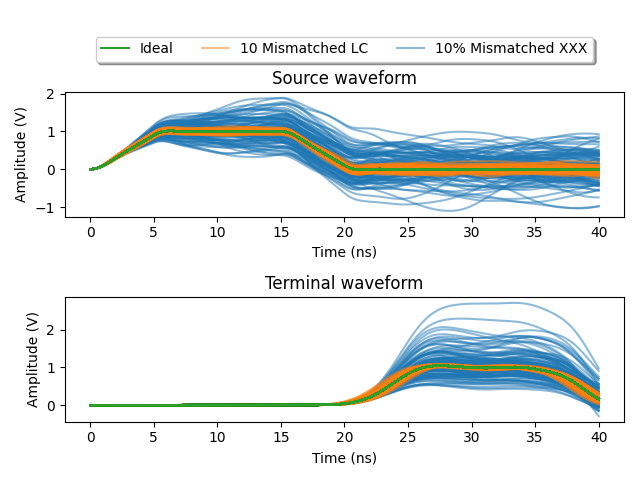
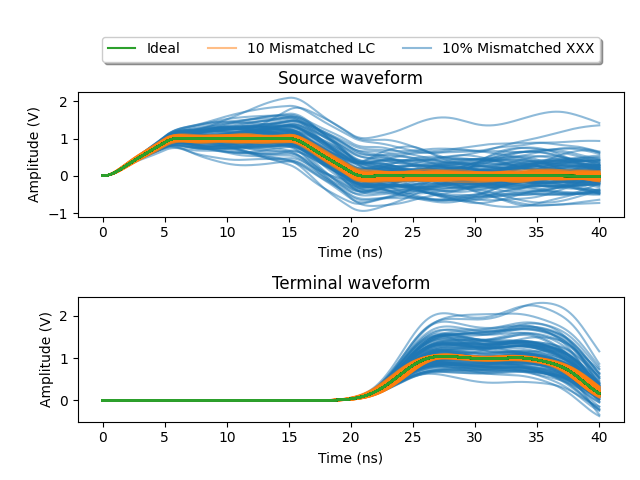
written

diff --git a/examples/tln_example.py b/examples/tln_example.py
@@ -23,6 +23,8 @@ from ark.specification.validation_rule import ValRule, ValPattern
 from ark.reduction import SUM
 import sys
 
+import numpy as np
+
 # visualization scripts
 from ark.cdg.cdg_lang import CDGLang
 import ark.visualize.latex_gen as latexlib
@@ -111,6 +113,9 @@ inpv_val = ValRule(InpV, [ValPattern(SRC, IdealE, IdealV, Range(min=0, max=1)),
                           ValPattern(SRC, IdealE, IdealI, Range(min=0, max=1))])
 inpi_val = ValRule(InpI, [ValPattern(SRC, IdealE, IdealV, Range(min=0, max=1)),
                           ValPattern(SRC, IdealE, IdealI, Range(min=0, max=1))])
+inpv_val = ValRule(InpV, [ValPattern(SRC, IdealE, IdealV, Range(min=0, max=1)),
+                          ValPattern(SRC, IdealE, IdealI, Range(min=0, max=1))])
+
 val_rules = [v_val, i_val, inpv_val, inpi_val]
 tln_lang.add_validation_rules(*val_rules)
 latexlib.validation_rules_to_latex(tln_lang)
@@ -133,10 +138,10 @@ spec = CDGSpec(cdg_types, prod_rules, val_rules)
 validator = ArkValidator(solver=SMTSolver())
 compiler = ArkCompiler(rewrite=RewriteGen())
 
-def build_line(graph,e_nt, v_nt,i_nt,length,start_i=False):
+def build_line(graph,e_nt, v_nt,i_nt,length,term_g=1.0,start_i=False):
     tc = 1e-9
     if start_i:
-        v_nodes = [v_nt(c=tc, g=0.0) for _ in range(length)] +  [v_nt(c=tc, g=1.0)]
+        v_nodes = [v_nt(c=tc, g=0.0) for _ in range(length)] +  [v_nt(c=tc, g=term_g)]
         i_nodes = [i_nt(l=tc, r=0.0) for _ in range(length+1)] 
         for i in range(length):
             graph.connect(e_nt(ws=1.0, wt=1.0), i_nodes[i], v_nodes[i])
@@ -149,7 +154,7 @@ def build_line(graph,e_nt, v_nt,i_nt,length,start_i=False):
 
 
     else:
-        v_nodes = [v_nt(c=tc, g=0.0) for _ in range(length)] + [v_nt(c=tc, g=1.0)]
+        v_nodes = [v_nt(c=tc, g=0.0) for _ in range(length)] + [v_nt(c=tc, g=term_g)]
         i_nodes = [i_nt(l=tc, r=0.0) for _ in range(length)]
         for i in range(length):
             graph.connect(e_nt(ws=1.0, wt=1.0), v_nodes[i], i_nodes[i])
@@ -163,13 +168,13 @@ def build_line(graph,e_nt, v_nt,i_nt,length,start_i=False):
 
 
 def create_tline_branch(v_nt: NodeType, i_nt: NodeType, e_nt: EdgeType,  line_len: int=5, \
-                branch_len: int=2, branches_per_node: int=2, branch_stride: int=1):
+                branch_len: int=2, branches_per_node: int=2, branch_offset: int=0, branch_stride: int=1):
     graph = CDG()
     current_in = InpI(fn=pulse, g=0.0)
     meas = Meas()
     v_nodes = []
     i_nodes = [] 
-    v_nodes_line,i_nodes_line = build_line(graph,e_nt,v_nt, i_nt, line_len)
+    v_nodes_line,i_nodes_line = build_line(graph,e_nt,v_nt, i_nt, line_len,term_g=0.0)
     v_nodes += v_nodes_line
     i_nodes += i_nodes_line
 
@@ -177,14 +182,14 @@ def create_tline_branch(v_nt: NodeType, i_nt: NodeType, e_nt: EdgeType,  line_le
     total_branches =  branches_per_node*int(line_len/branch_stride)
     branches = {}
     for i in range(total_branches):
-        v_nodes_branches,i_nodes_branches = build_line(graph,e_nt,v_nt,i_nt,branch_len,start_i=True)
+        v_nodes_branches,i_nodes_branches = build_line(graph,e_nt,v_nt,i_nt,branch_len,start_i=True,term_g=0.0)
         branches[i] = (v_nodes_branches,i_nodes_branches)
         v_nodes += v_nodes_branches
         i_nodes += i_nodes_branches
 
 
     idx = 0
-    for i in range(0,line_len,branch_stride):
+    for i in range(branch_offset,line_len,branch_stride):
         targ_v = v_nodes_line[i]
         targ_i = i_nodes_line[i]
         for br in range(branches_per_node):
@@ -226,7 +231,7 @@ def create_linear_tline(v_nt: NodeType, i_nt: NodeType,
 
     return graph, v_nodes, i_nodes
 
-def nominal_simulation(cdg,time_range,name):
+def nominal_simulation(cdg,time_range,name,post_process_hook=None):
     validator.validate(cdg=cdg, cdg_spec=spec)
     compiler.compile(cdg=cdg, cdg_spec=spec, help_fn=help_fn, import_lib={})
     mapping = compiler.var_mapping
@@ -239,32 +244,51 @@ def nominal_simulation(cdg,time_range,name):
     print(mapping)
     in_traj_idx = mapping[in_node]
     out_traj_idx = mapping[out_node]
+
+    fig, ax = plt.subplots(1, 1, sharex=True)
+
     plt.plot(time_points,trajs[in_traj_idx])
     plt.plot(time_points,trajs[out_traj_idx])
+    if not post_process_hook is None:
+        post_process_hook(fig,ax)
 
-    filename = "gviz-output/tln-example/%s.pdf" % name
+    filename = "gviz-output/tln-example/%s_plot.pdf" % name
     plt.savefig(filename)
     plt.clf()
 
+def highlight_refl(fig,ax):
+    WINDOW_SIZE = 40e-9
+    xmin, xmax, ymin, ymax = plt.axis()
+    wl = WINDOW_SIZE
+    wh = 2*(WINDOW_SIZE)
+    section = np.arange(wl,wh, (wh-wl)*0.01)
+    shadecolor = "yellow"
+    shadealpha = 0.2
+    x = np.arange(xmin, xmax, (xmax-xmin)*0.01)
+    ax.axvline(wl, color=shadecolor, lw=2, alpha=shadealpha)
+    ax.axvline(wh, color=shadecolor, lw=2, alpha=shadealpha)
+    ax.fill_between(section, ymin, ymax,  facecolor=shadecolor, alpha=shadealpha)
+    ax.fill_between(section, ymin, ymax,  facecolor=shadecolor, alpha=shadealpha)
 
 if __name__ == '__main__':
 
     line_len = 12
-    itl_linear, _, _ = create_linear_tline(IdealV, IdealI, MmE,line_len=10)
+    itl_linear, _, _ = create_linear_tline(IdealV, IdealI, IdealE,line_len=10)
     graphvizlib.cdg_to_graphviz("tln-example","idl_tline_linear",hw_tln_lang,itl_linear,inherited=False, \
                 horizontal=True,save_legend=True, show_node_labels=False)
-    opts = {"nominal":True,"name":"idl_tline_linear"}
+    lin_opts = {"nominal":True,"name":"idl_tline_linear", "post_process_hook":None}
 
-    branch_args = {"line_len":line_len, "branch_stride":4,"branches_per_node":1,"branch_len":7}
-    itl_branch, _, _ = create_tline_branch(IdealV, IdealI, MmE,  **branch_args)
+    branch_args = {"line_len":line_len, "branch_stride":12,"branches_per_node":1,"branch_len":5,"branch_offset":6}
+    itl_branch, _, _ = create_tline_branch(IdealV, IdealI, IdealE,  **branch_args)
     graphvizlib.cdg_to_graphviz("tln-example","idl_tline_branch",hw_tln_lang,itl_branch,inherited=False, \
                 horizontal=True,save_legend=False, show_node_labels=False)
-    opts = {"nominal":True,"name":"idl_tline_branch"}
+    br_opts = {"nominal":True,"name":"idl_tline_branch", "post_process_hook":highlight_refl}
 
-    TIME_RANGE = [0, 40e-9]
-    for options, cdg_prog in [(opts,itl_linear), (opts,itl_branch)]:
+    WINDOWS = 2
+    TIME_RANGE = [0, 40e-9*WINDOWS]
+    for options, cdg_prog in [(lin_opts,itl_linear), (br_opts,itl_branch)]:
         if options["nominal"]:
-            nominal_simulation(cdg_prog,TIME_RANGE,options["name"])            
+            nominal_simulation(cdg_prog,TIME_RANGE,options["name"],post_process_hook=options["post_process_hook"])            
 
  
 
@@ -275,7 +299,7 @@ if __name__ == '__main__':
 
     LINE_LEN = 20
     N_RAND_SIM = 100
-    TIME_RANGE = [0, 40e-9]
+    TIME_RANGE = [0, 40e-9*10]
     fig, ax = plt.subplots(nrows=2)
     for color_idx, (vt, it, et, title,handle) in enumerate([(IdealV, IdealI, MmE, '10% Mismatched XXX',"mmG"),
                                                      (MmV, MmI, IdealE, '10 Mismatched LC',"mmLC"),

diff --git a/examples/con.py b/examples/con.py
@@ -168,7 +168,7 @@ elif SCALE_RSTD:
                                                             rstd=SCALE_RSTD)])
                                                         
 if not Coupling_distorted is None:
-    hw_obc_lang = CDGLang("hwobc-%f-%f" % (OFFSET_RSTD,SCALE_RSTD), inherits=obc_lang)
+    hw_obc_lang = CDGLang("hwobc-%s-%s" % (OFFSET_RSTD,SCALE_RSTD), inherits=obc_lang)
     hw_obc_lang.add_types(Coupling_distorted)
     latexlib.type_spec_to_latex(hw_obc_lang)
 
